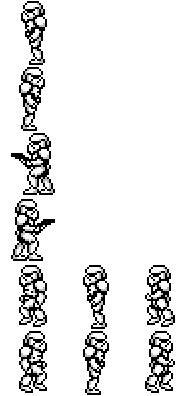
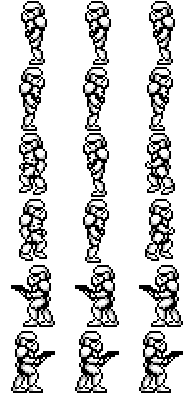
update laser bullet and stormtrooper

Changed region(s): [[0.7113, 0.0, 0.9588, 1.0], [0.3711, 0.0, 0.6186, 1.0], [0.0619, 0.3333, 0.2784, 1.0]]

diff --git a/client/Configuration/EntityData.js b/client/Configuration/EntityData.js
@@ -144,19 +144,21 @@ const EntityData = {
   },
   StormTropper: {
     [ComponentTypes.RENDERABLE]: {
-      image: Images.yoda,
-      width: 32,
+      image: Images.stormtrooper,
+      width: 64,
       height: 64,
       visionOffset: {
         x: 0.1,
         y: 0.2,
       },
-      scale: 2.5,
+      scale: 2,
     },
     [ComponentTypes.MULTI_SPRITES]: {
-      left: 128,
-      right: 192,
+      left: 133,
+      right: 199,
       idle: 0,
+      shootLeft: 265,
+      shootRight: 331
     },
     [ComponentTypes.HEALTH]: {
       maxHealth: 100,
@@ -168,7 +170,7 @@ const EntityData = {
     },
     [ComponentTypes.ANIMATED]: {
       animationSpeed: 300,
-      spritesCount: 6,
+      spritesCount: 3,
     },
     [ComponentTypes.COLLIDABLE]: {
       subSquareRatio: 1,
@@ -248,7 +250,7 @@ const EntityData = {
       image: Images.laserBullet,
       width: 25,
       height: 9,
-      scale: 2,
+      scale: 1,
     },
     [ComponentTypes.LIFE_TIME]: {
       lifeTime: 500,

diff --git a/client/Assets/ImageGenerator.js b/client/Assets/ImageGenerator.js
@@ -23,7 +23,8 @@ const Images = {
   exit: createImage("./Images/exit.png"),
   emptyCrib: createImage("./Images/emptyCrib.png"),
   drone: createImage("./Images/drone.png"),
-  laserBullet: createImage("./Images/laserBullet.png")
+  laserBullet: createImage("./Images/laserBullet.png"),
+  stormtrooper: createImage("./Images/stormtrooperNEW")
 };
 
 export default Images;
